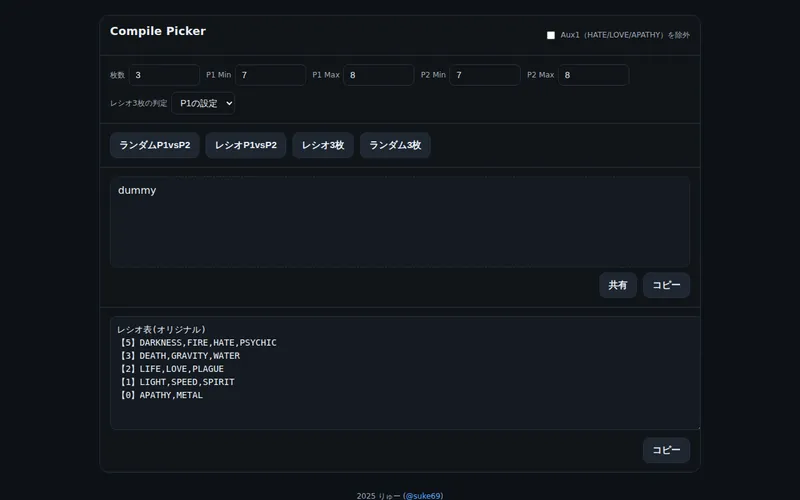
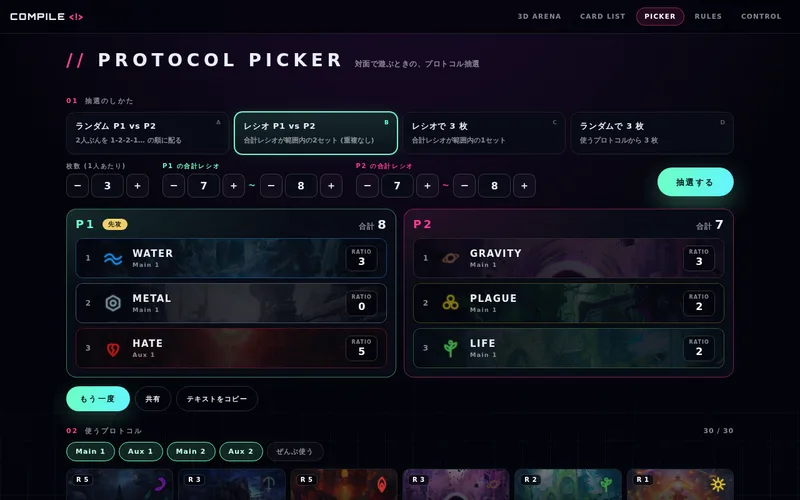
Point the picker card at the new COMPILE picker
The picker moved into the COMPILE portal (compile/picker.html) with all
30 protocols and an editable ratio table. Update its card, refresh the
card list and picker screenshots, and describe the new card list.

Claude-Session: https://claude.ai/code/session_01AvbpAR6hZ1Wd4PJAayMkNa

diff --git a/index.html b/index.html
@@ -738,8 +738,8 @@
         group: 'compile',
         title: 'CARD LIST',
         ja: 'カードリスト',
-        desc: '全プロトコルのカードを一覧で。効果からの逆引き検索や、デッキ分析もできます。',
-        tags: ['カード一覧', '逆引き検索', 'デッキ分析'],
+        desc: '全 30 プロトコル・180 枚のカードを、カードの絵つきで一覧に。効果の文の検索、効果からの逆引き、デッキ分析もできます。',
+        tags: ['カード一覧', '効果検索', '逆引き', 'デッキ分析'],
         url: 'https://princetottino10-bit.github.io/compile/cardlist.html',
         img: 'img/cardlist.webp',
         icon: 'cardlist',
@@ -768,14 +768,14 @@
       },
       {
         group: 'compile',
-        title: 'Compile Picker',
-        ja: 'プロトコル ランダマイザ',
-        desc: '使うプロトコルをランダムに決めるピッカー。レシオの上限・下限を指定した抽選にも対応。',
-        tags: ['ランダマイザ', 'レシオ対応'],
-        url: 'https://princetottino10-bit.github.io/compile-picker/compile_protocol_picker.html',
+        title: 'PROTOCOL PICKER',
+        ja: 'プロトコル抽選',
+        desc: '使うプロトコルをランダムに決めるピッカー。全 30 プロトコル対応で、合計レシオの範囲を決めた P1 vs P2 の抽選も。レシオ表はその場で書き換えられます。',
+        tags: ['ランダマイザ', 'レシオ対応', '30 プロトコル'],
+        url: 'https://princetottino10-bit.github.io/compile/picker.html',
         img: 'img/picker.webp',
         icon: 'picker',
-        repo: 'https://github.com/princetottino10-bit/compile-picker',
+        repo: 'https://github.com/princetottino10-bit/compile',
       },
       {
         group: 'compile',
